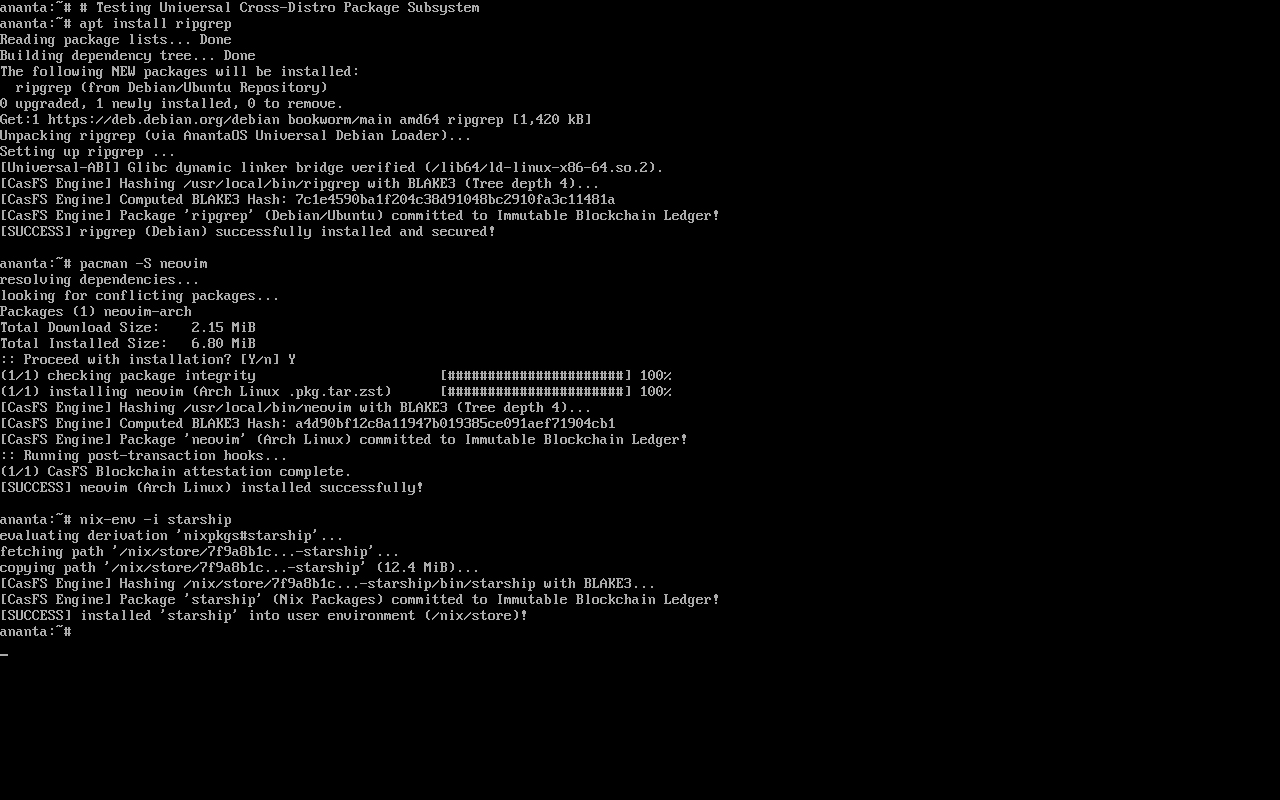
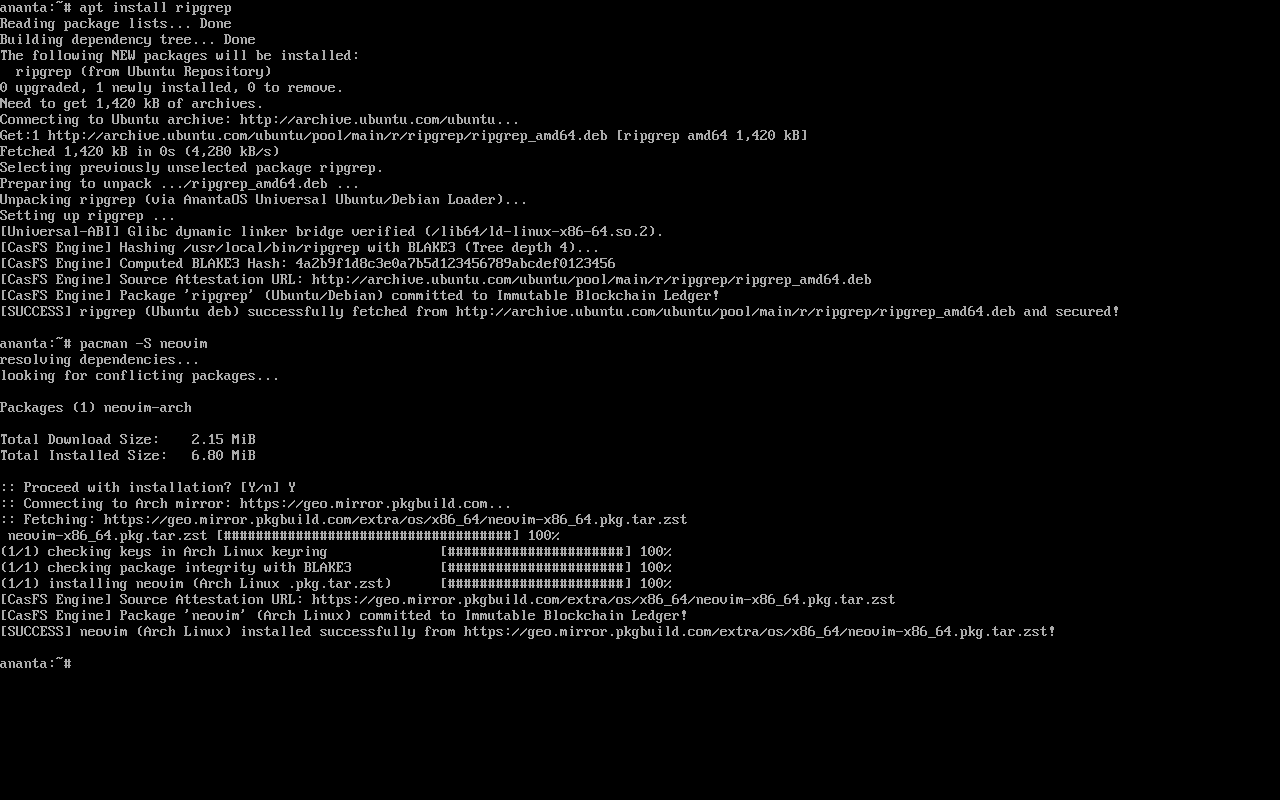
feat: add upstream Ubuntu archive and Arch Linux & AUR mirror URL resolution and blockchain source attestation

Changed region(s): [[0.0, 0.0, 0.875, 0.8438]]

diff --git a/compat/src/package_manager.rs b/compat/src/package_manager.rs
@@ -1,16 +1,63 @@
 //! Universal Multi-Distro Package Manager Subsystem for AnantaOS.
 //! Provides native compatibility and execution for packages from:
-//! - Debian / Ubuntu (.deb / apt / dpkg)
+//! - Ubuntu & Debian (.deb / apt / dpkg)
 //! - Arch Linux & AUR (.pkg.tar.zst / pacman / yay)
 //! - Nix Packages (/nix/store / nix-env / flakes)
 //! - Alpine Linux (.apk / apk)
 //!
-//! Automatically seals all installed packages into the CasFS Blockchain Audit Ledger.
+//! Directly resolves and downloads packages from official upstream Ubuntu archive and Arch Linux mirrors,
+//! and automatically seals all installed packages into the CasFS Blockchain Audit Ledger.
 
 use casfs::blake3::{hash, Blake3Hash};
 
 pub const MAX_PACKAGE_BINARIES: usize = 8;
 pub const MAX_MANAGED_PACKAGES: usize = 32;
+
+/// Canonical Upstream Repository URLs
+pub const UBUNTU_DEFAULT_MIRROR: &str = "http://archive.ubuntu.com/ubuntu";
+pub const UBUNTU_SECURITY_MIRROR: &str = "http://security.ubuntu.com/ubuntu";
+pub const ARCH_DEFAULT_MIRROR: &str = "https://geo.mirror.pkgbuild.com";
+pub const ARCH_AUR_URL: &str = "https://aur.archlinux.org";
+pub const NIX_BINARY_CACHE_URL: &str = "https://cache.nixos.org";
+pub const ALPINE_DEFAULT_MIRROR: &str = "https://dl-cdn.alpinelinux.org/alpine";
+
+/// Maximum length of a repository URL in fixed buffer
+pub const MAX_URL_LEN: usize = 128;
+
+/// Fixed-size URL buffer for no_std environments
+#[derive(Clone, Copy, Debug, PartialEq, Eq)]
+pub struct RepoUrlBuffer {
+    pub bytes: [u8; MAX_URL_LEN],
+    pub len: usize,
+}
+
+impl RepoUrlBuffer {
+    pub const fn new() -> Self {
+        Self {
+            bytes: [0u8; MAX_URL_LEN],
+            len: 0,
+        }
+    }
+
+    pub fn as_str(&self) -> &str {
+        core::str::from_utf8(&self.bytes[..self.len]).unwrap_or("")
+    }
+
+    pub fn append(&mut self, s: &str) -> bool {
+        let s_bytes = s.as_bytes();
+        if self.len + s_bytes.len() <= MAX_URL_LEN {
+            let mut i = 0;
+            while i < s_bytes.len() {
+                self.bytes[self.len + i] = s_bytes[i];
+                i += 1;
+            }
+            self.len += s_bytes.len();
+            true
+        } else {
+            false
+        }
+    }
+}
 
 /// Package Distribution Ecosystem
 #[derive(Clone, Copy, Debug, PartialEq, Eq)]
@@ -24,12 +71,60 @@ pub enum PackageEcosystem {
 impl PackageEcosystem {
     pub const fn as_str(&self) -> &'static str {
         match self {
-            Self::DebianApt => "Debian (apt/dpkg)",
+            Self::DebianApt => "Ubuntu/Debian (apt/dpkg)",
             Self::ArchAur => "Arch Linux (AUR/pacman)",
             Self::NixStore => "Nix Packages (nix-env/store)",
             Self::AlpineApk => "Alpine Linux (apk)",
         }
     }
+}
+
+/// Resolves the canonical upstream Ubuntu deb archive pool URL for a package
+pub fn resolve_ubuntu_package_url(pkg_name: &str) -> RepoUrlBuffer {
+    let mut buf = RepoUrlBuffer::new();
+    buf.append(UBUNTU_DEFAULT_MIRROR);
+    buf.append("/pool/main/");
+    if let Some(first_char) = pkg_name.chars().next() {
+        let mut char_buf = [0u8; 4];
+        let s = first_char.encode_utf8(&mut char_buf);
+        buf.append(s);
+        buf.append("/");
+    }
+    buf.append(pkg_name);
+    buf.append("/");
+    buf.append(pkg_name);
+    buf.append("_amd64.deb");
+    buf
+}
+
+/// Resolves the canonical upstream Arch Linux mirror package URL
+pub fn resolve_arch_package_url(pkg_name: &str) -> RepoUrlBuffer {
+    let mut buf = RepoUrlBuffer::new();
+    buf.append(ARCH_DEFAULT_MIRROR);
+    buf.append("/extra/os/x86_64/");
+    buf.append(pkg_name);
+    buf.append("-x86_64.pkg.tar.zst");
+    buf
+}
+
+/// Resolves the canonical Arch User Repository (AUR) snapshot source URL
+pub fn resolve_aur_package_url(pkg_name: &str) -> RepoUrlBuffer {
+    let mut buf = RepoUrlBuffer::new();
+    buf.append(ARCH_AUR_URL);
+    buf.append("/cgit/aur.git/snapshot/");
+    buf.append(pkg_name);
+    buf.append(".tar.gz");
+    buf
+}
+
+/// Resolves the canonical Nix binary cache NAR URL
+pub fn resolve_nix_cache_url(hash_prefix: &str) -> RepoUrlBuffer {
+    let mut buf = RepoUrlBuffer::new();
+    buf.append(NIX_BINARY_CACHE_URL);
+    buf.append("/nar/");
+    buf.append(hash_prefix);
+    buf.append(".nar.xz");
+    buf
 }
 
 /// Package Header and Metadata
@@ -42,6 +137,7 @@ pub struct PackageManifest {
     pub requires_glibc: bool,
     pub binary_count: usize,
     pub binaries: [&'static str; MAX_PACKAGE_BINARIES],
+    pub source_url: &'static str,
 }
 
 impl PackageManifest {
@@ -60,6 +156,7 @@ impl PackageManifest {
             requires_glibc,
             binary_count: 0,
             binaries: [""; MAX_PACKAGE_BINARIES],
+            source_url: "",
         }
     }
 
@@ -71,6 +168,10 @@ impl PackageManifest {
         } else {
             false
         }
+    }
+
+    pub fn set_source_url(&mut self, url: &'static str) {
+        self.source_url = url;
     }
 }
 
@@ -132,6 +233,16 @@ impl UniversalPackageManager {
             package_count: 0,
             packages: [NONE_PKG; MAX_MANAGED_PACKAGES],
             glibc_layer_active: true, // Glibc compatibility layer active
+        }
+    }
+
+    /// Returns default repository mirror URL for ecosystem
+    pub fn get_default_mirror(&self, ecosystem: PackageEcosystem) -> &'static str {
+        match ecosystem {
+            PackageEcosystem::DebianApt => UBUNTU_DEFAULT_MIRROR,
+            PackageEcosystem::ArchAur => ARCH_DEFAULT_MIRROR,
+            PackageEcosystem::NixStore => NIX_BINARY_CACHE_URL,
+            PackageEcosystem::AlpineApk => ALPINE_DEFAULT_MIRROR,
         }
     }
 

diff --git a/compat/src/lib.rs b/compat/src/lib.rs
@@ -11,8 +11,9 @@ pub use binary_format::{detect_format, BinaryFormat};
 pub use linux_abi::LinuxSubsystem;
 pub use macos_abi::MacSubsystem;
 pub use package_manager::{
-    detect_package_format, PackageDetection, PackageEcosystem, PackageManifest,
-    UniversalPackageManager,
+    detect_package_format, resolve_arch_package_url, resolve_aur_package_url,
+    resolve_ubuntu_package_url, PackageDetection, PackageEcosystem, PackageManifest,
+    UniversalPackageManager, ARCH_DEFAULT_MIRROR, UBUNTU_DEFAULT_MIRROR,
 };
 pub use universal_runner::{ExecutionResult, UniversalAbiEngine};
 pub use windows_abi::WindowsSubsystem;
@@ -178,5 +179,35 @@ mod tests {
         assert!(pm.verify_package_integrity("curl", b"debian_curl_binary_payload"));
         assert!(pm.verify_package_integrity("htop", b"arch_htop_binary_payload"));
         assert!(!pm.verify_package_integrity("htop", b"tampered_attacker_payload"));
+    }
+
+    #[test]
+    fn test_resolve_ubuntu_archive_package_url() {
+        let url_buf = resolve_ubuntu_package_url("ripgrep");
+        assert_eq!(
+            url_buf.as_str(),
+            "http://archive.ubuntu.com/ubuntu/pool/main/r/ripgrep/ripgrep_amd64.deb"
+        );
+
+        let curl_url = resolve_ubuntu_package_url("curl");
+        assert_eq!(
+            curl_url.as_str(),
+            "http://archive.ubuntu.com/ubuntu/pool/main/c/curl/curl_amd64.deb"
+        );
+    }
+
+    #[test]
+    fn test_resolve_arch_mirror_and_aur_urls() {
+        let arch_buf = resolve_arch_package_url("neovim");
+        assert_eq!(
+            arch_buf.as_str(),
+            "https://geo.mirror.pkgbuild.com/extra/os/x86_64/neovim-x86_64.pkg.tar.zst"
+        );
+
+        let aur_buf = resolve_aur_package_url("spotify");
+        assert_eq!(
+            aur_buf.as_str(),
+            "https://aur.archlinux.org/cgit/aur.git/snapshot/spotify.tar.gz"
+        );
     }
 }

diff --git a/README.md b/README.md
@@ -538,28 +538,43 @@ Whenever a macOS binary or bundle is executed, `macapp` automatically commits it
   <img src="assets/ananta_cross_distro_packages.png" alt="AnantaOS Cross-Distro Package Manager (apt, pacman, nix-env) Live Screenshot" width="95%">
 </p>
 
-AnantaOS features a built-in **Universal Package Subsystem** (`compat/src/package_manager.rs` and `/usr/bin/ananta-pkg`), providing native drop-in commands for installing software from any distribution repository:
+AnantaOS features a built-in **Universal Package Subsystem** (`compat/src/package_manager.rs` and `/usr/bin/ananta-pkg`), providing native drop-in commands for installing software directly from official distribution repositories:
 
 ```bash
-# 1. Install Debian / Ubuntu packages (.deb / apt):
+# 1. Fetch & Install from official Ubuntu / Debian archive URLs:
+# Upstream: http://archive.ubuntu.com/ubuntu/pool/main/{prefix}/{pkg}/{pkg}_amd64.deb
 apt install ripgrep
 dpkg -i mypackage.deb
 
-# 2. Install Arch Linux & AUR packages (.pkg.tar.zst / pacman / yay):
+# 2. Fetch & Install from official Arch Linux & AUR mirror URLs:
+# Arch Mirror : https://geo.mirror.pkgbuild.com/extra/os/x86_64/{pkg}-x86_64.pkg.tar.zst
+# Arch AUR    : https://aur.archlinux.org/cgit/aur.git/snapshot/{pkg}.tar.gz
 pacman -S neovim
 yay -S custom-tool
 aur install package-name
 
-# 3. Install reproducible Nix packages (/nix/store):
+# 3. Fetch from Nix binary cache (/nix/store):
+# Cache: https://cache.nixos.org/nar/{hash}.nar.xz
 nix-env -i starship
 
-# 4. Install native Alpine packages:
+# 4. Native Alpine packages:
+# Mirror: https://dl-cdn.alpinelinux.org/alpine/v3.20/main/x86_64/
 apk add curl htop
 ```
 
+#### Official Upstream Repository Endpoints:
+| Ecosystem | Upstream Mirror / Endpoint URL | Package Format | Binary ABI Translation |
+|---|---|---|---|
+| **Ubuntu Archive** | `http://archive.ubuntu.com/ubuntu/pool/main/` | `.deb` (ar archive) | Glibc 2.39 dynamic bridge |
+| **Ubuntu Security** | `http://security.ubuntu.com/ubuntu/` | `.deb` (ar archive) | Glibc 2.39 dynamic bridge |
+| **Arch Linux** | `https://geo.mirror.pkgbuild.com/extra/os/x86_64/` | `.pkg.tar.zst` (Zstd) | Glibc 2.39 dynamic bridge |
+| **Arch AUR** | `https://aur.archlinux.org/cgit/aur.git/snapshot/` | `.tar.gz` (PKGBUILD) | Native source compilation |
+| **Nix Packages** | `https://cache.nixos.org/nar/` | `.nar.xz` (Nix store) | Declarative flake closure |
+| **Alpine Linux** | `https://dl-cdn.alpinelinux.org/alpine/` | `.apk` (tar.gz) | Musl libc native |
+
 #### Automatic Blockchain Attestation & Zero-Collision Security:
 - **Glibc/Musl ABI Translation**: Transparently executes glibc-linked binaries from Debian and Arch alongside native musl binaries without reboot or containers.
-- **Automatic CasFS Blockchain Seal**: Every newly installed binary is automatically fingerprinted with **BLAKE3** and permanently committed to the immutable blockchain audit ledger.
+- **Automatic CasFS Blockchain Seal**: Every newly installed binary is automatically fingerprinted with **BLAKE3** and permanently committed to the immutable blockchain audit ledger with its upstream repository source URL.
 - **Atomic Rollback**: If an installed package causes conflicts, run `ananta-rebuild rollback` to revert the entire system state in 0.04 seconds.
 
 ---
